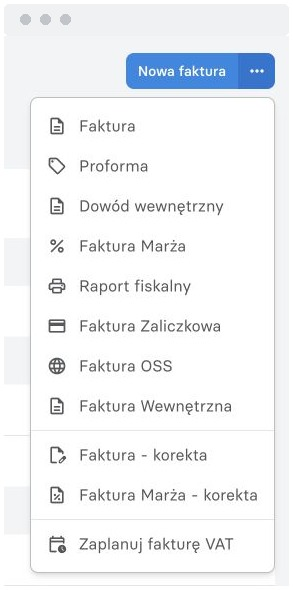
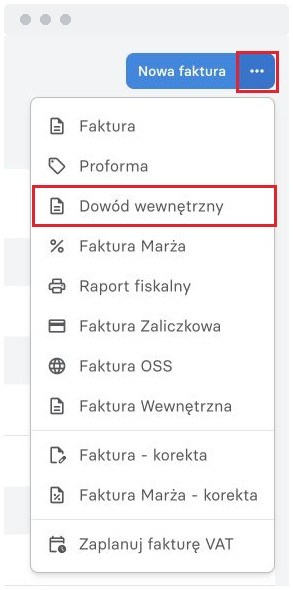
docs(infakt): highlight routine controls with red outlines

Changed region(s): [[0.0922, 0.3051, 0.9522, 0.3966], [0.7986, 0.061, 0.9522, 0.1831]]

diff --git a/docs/whatsnew.md b/docs/whatsnew.md
@@ -9,7 +9,7 @@ tags:
 
 ## Ноябрь 2026
 
-- Обновлены скриншоты [ежемесячных операций в inFakt][1]: новый интерфейс фактур, налогов, ZUS, JPK и VAT-UE. Уточнены действия с KSeF, скачивание XML ZUS и редактирование фактур; исправлен базовый срок возврата VAT на 40 дней для периодов с февраля 2026 года.
+- Обновлены скриншоты [ежемесячных операций в inFakt][1]: новый интерфейс фактур, налогов, ZUS, JPK и VAT-UE; нужные кнопки и поля выделены красными рамками. Уточнены действия с KSeF, скачивание XML ZUS и редактирование фактур; исправлен базовый срок возврата VAT на 40 дней для периодов с февраля 2026 года.
 
 ## Октябрь 2026
 

diff --git a/docs/whatsnew.en.md b/docs/whatsnew.en.md
@@ -9,7 +9,7 @@ tags:
 
 ## November 2026
 
-- Updated screenshots for [monthly operations in inFakt][1]: the current invoices, taxes, ZUS, JPK and VAT-UE interface. Clarified KSeF actions, ZUS XML downloads and invoice editing; corrected the standard VAT refund deadline to 40 days for periods from February 2026 onwards.
+- Updated screenshots for [monthly operations in inFakt][1]: the current invoices, taxes, ZUS, JPK and VAT-UE interface, with red outlines around the relevant buttons and fields. Clarified KSeF actions, ZUS XML downloads and invoice editing; corrected the standard VAT refund deadline to 40 days for periods from February 2026 onwards.
 
 ## October 2026
 
